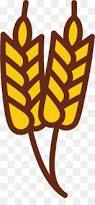
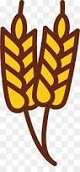
nothing

diff --git a/app/templates/field_plan.html b/app/templates/field_plan.html
@@ -161,7 +161,7 @@ span.psw {
   <form class="modal-content animate" method="post" action="/post_data">
     <div class="imgcontainer">
       <span onclick="document.getElementById('id01').style.display='none'" class="close" title="Close Modal">&times;</span>
-      <img src="/static/images/sorghum.png" height="50" width="100" alt="Avatar" class="avatar">
+      <img src="/static/images/sorghum.jpg" height="400" width="100" alt="Avatar" class="avatar">
     </div>
 
     <div class="container">

diff --git a/app/templates/home.html b/app/templates/home.html
@@ -1,5 +1,8 @@
 {% extends "layout.html" %}
 {% block content %}
-<h1>HOME</h1>
+
+<h1></h1>
+<h1> /</h1>
+<center><h2>Acreage to Field Plan Overview</h2></center>
 
 {% endblock content %}
